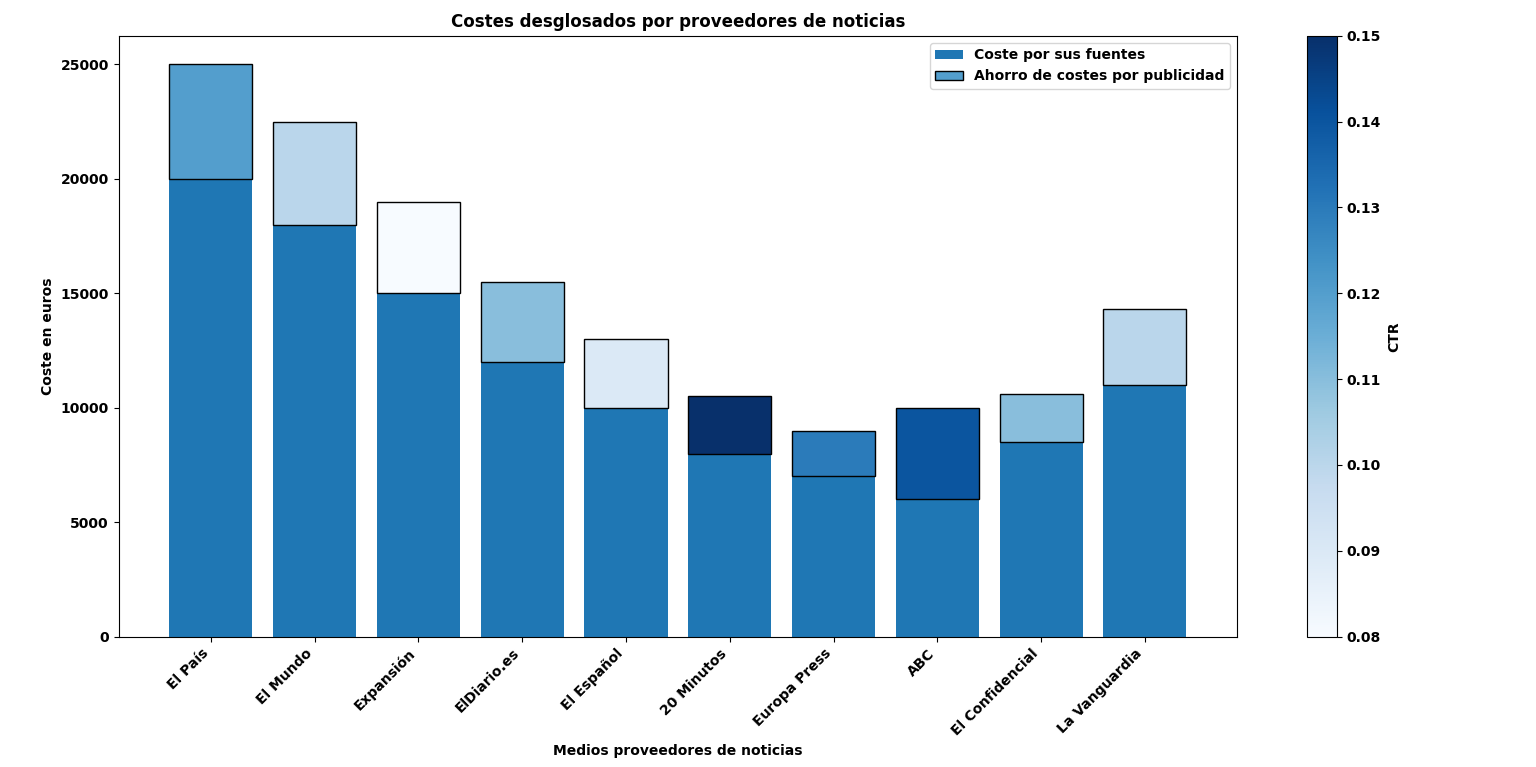
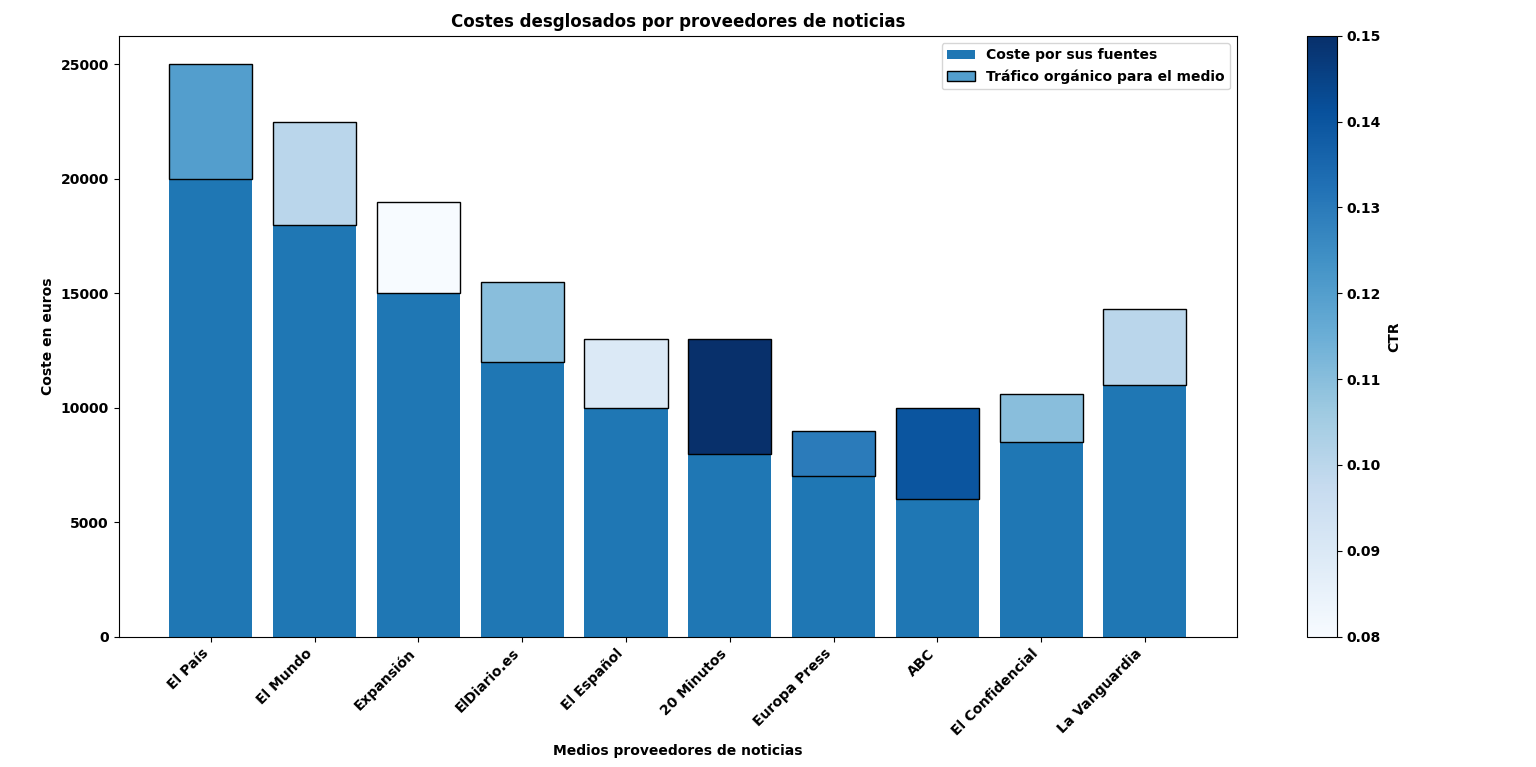
Correciones

Changed region(s): [[0.5938, 0.06, 0.8125, 0.1199], [0.4375, 0.4198, 0.5312, 0.5398]]

diff --git a/generador_datos_seguimiento_medios.py b/generador_datos_seguimiento_medios.py
@@ -6,14 +6,14 @@ data_proveedores = {
                                        '20 Minutos', 'Europa Press', 'ABC', 'El Confidencial', 'La Vanguardia'],
     'Coste por sus fuentes': [20000, 18000, 15000, 12000, 10000, 8000, 7000, 6000, 8500, 11000],
     'CTR': [0.12, 0.10, 0.08, 0.11, 0.09, 0.15, 0.13, 0.14, 0.11, 0.10],
-    'Ahorro de costes por publicidad': [5000, 4500, 4000, 3500, 3000, 2500, 2000, 4000, 2100, 3300]
+    'Tráfico orgánico para el medio': [5000, 4500, 4000, 3500, 3000, 5000, 2000, 4000, 2100, 3300]
 }
 
 # Convertir a DataFrame
 df_proveedores = pd.DataFrame(data_proveedores)
 
-# Calcular el "Coste total real" como la suma de "Coste por sus fuentes" y "Ahorro de costes por publicidad"
-df_proveedores['Coste total real'] = df_proveedores['Coste por sus fuentes'] + df_proveedores['Ahorro de costes por publicidad']
+# Calcular el "Coste total real" como la suma de "Coste por sus fuentes" y "Tráfico orgánico para el medio"
+df_proveedores['Coste total real'] = df_proveedores['Coste por sus fuentes'] + df_proveedores['Tráfico orgánico para el medio']
 
 # Exportar el DataFrame a un archivo Excel
 # output_file_path = 'datos_seguimiento_medios.xlsx'

diff --git a/gráfico_seguimiento_medios.py b/gráfico_seguimiento_medios.py
@@ -16,12 +16,12 @@ fig, ax = plt.subplots(figsize=(12, 8))
 # Graficar el 'Coste por sus fuentes'
 ax.bar(df_proveedores['Medios proveedores de noticias'], df_proveedores['Coste por sus fuentes'], label='Coste por sus fuentes')
 
-# Graficar el 'Ahorro de costes por publicidad' con colores basados en el CTR
+# Graficar el 'Tráfico orgánico para el medio' con colores basados en el CTR
 for idx, row in df_proveedores.iterrows():
-    ax.bar(row['Medios proveedores de noticias'], row['Ahorro de costes por publicidad'], 
+    ax.bar(row['Medios proveedores de noticias'], row['Tráfico orgánico para el medio'], 
            bottom=row['Coste por sus fuentes'], 
            color=sm.to_rgba(row['CTR']), 
-           edgecolor='black', label='Ahorro de costes por publicidad' if idx == 0 else "")
+           edgecolor='black', label='Tráfico orgánico para el medio' if idx == 0 else "")
 
 # Añadir la barra de colores para el CTR
 cbar = plt.colorbar(sm, ax=ax)
